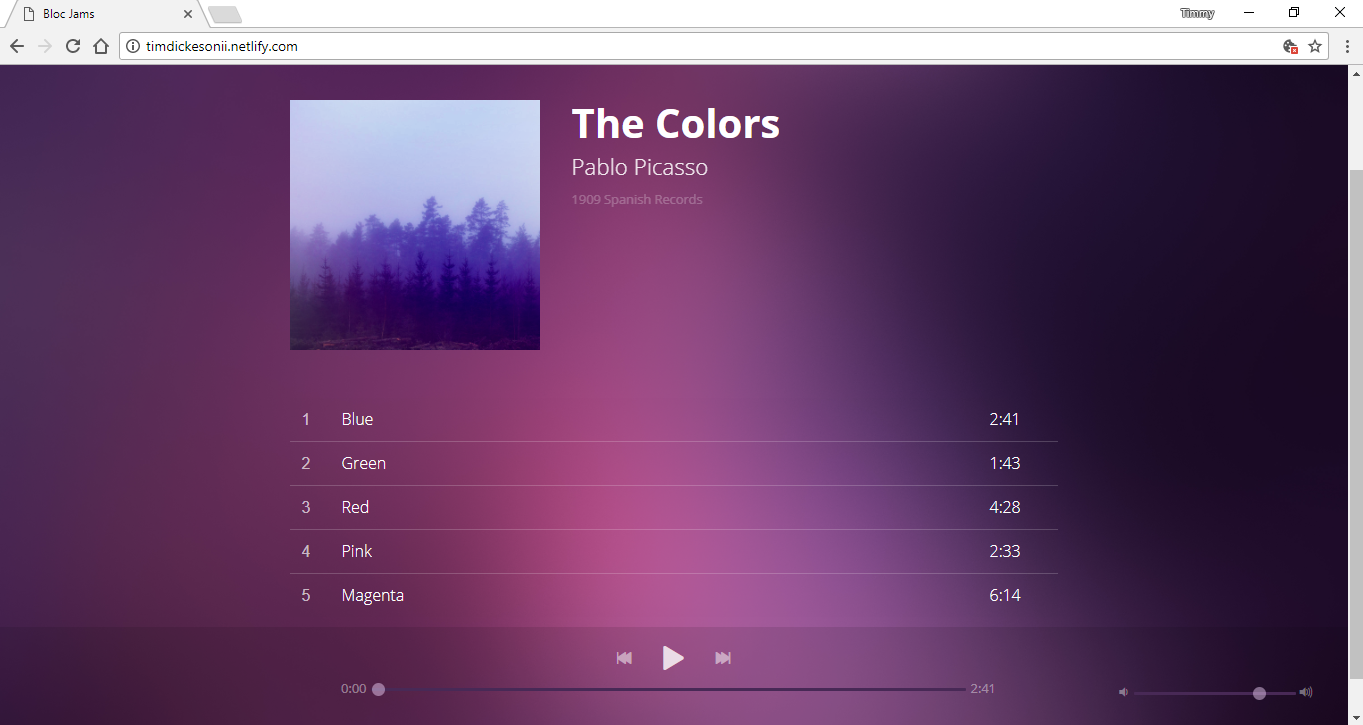
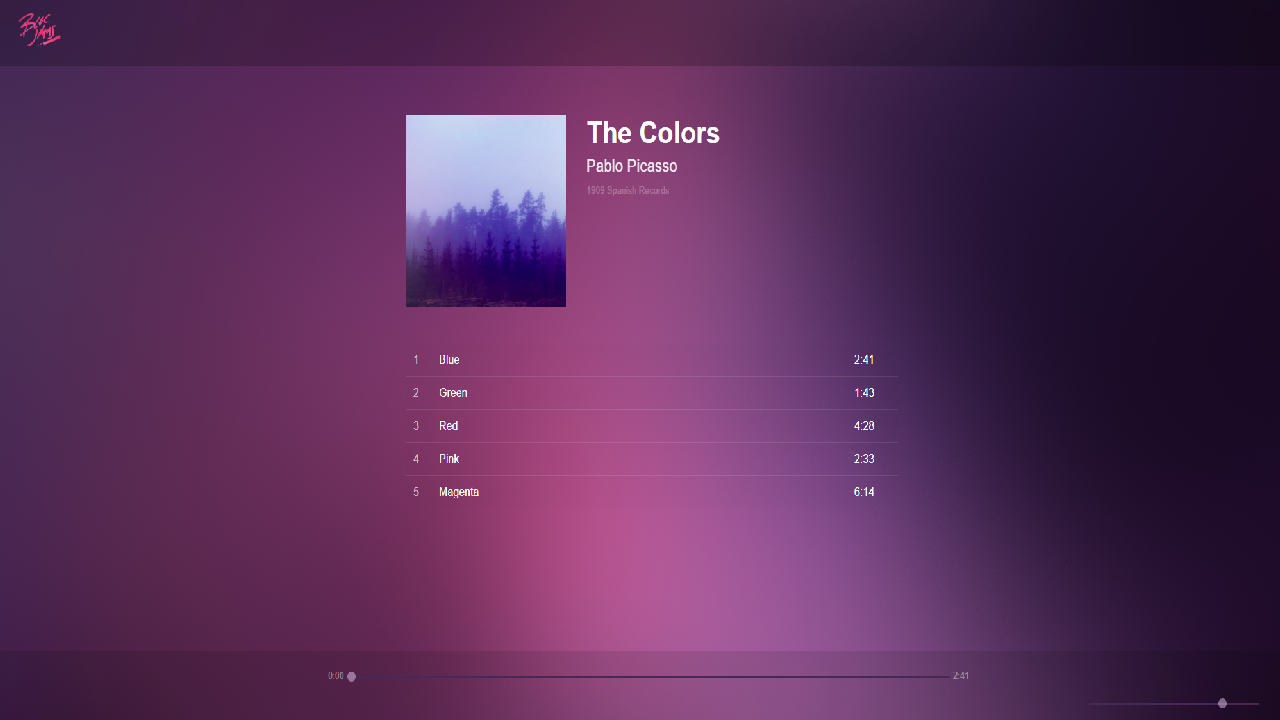
included 3 new projects, added new footer links, and changed font

diff --git a/index.html b/index.html
@@ -12,13 +12,24 @@
   <body>
     <header id="portfolio-header">
       <h1>Tim Dickeson II</h1>
-      <p id="slogan">Adventurous Full Stack Developer</p>
+      <p id="slogan">Full Stack Engineer</p>
     </header>
 
     <main>
       <div class="container">
         <div>
-          <img class="project-picture" src="images/blocjams.png" alt="project screenshot"/>
+          <img class="project-picture" src="images/clappybird.png" alt="clappy bird"/>
+        </div>
+        <div>
+          <h2 class="project-name">Clappy Bird</h2>
+          <p class="project-description">Took a previously made flappybird clone on Unity3D and revamped it to be controlled by clapping or saying 1-syllable words (i.e. "Jump" or "Up").</p>
+          <a class="project-link" href="https://www.youtube.com/watch?v=RoESkSNBo8A">Check it out</a>
+        </div>
+      </div>
+
+      <div class="container">
+        <div>
+          <img class="project-picture" src="images/blocjams.png" alt="bloc jams"/>
         </div>
         <div>
           <h2 class="project-name">Bloc Jams Music Player</h2>
@@ -29,34 +40,23 @@
 
       <div class="container">
         <div>
-          <img class="project-picture" src="images/blocjams.png" alt="project screenshot"/>
+          <img class="project-picture" src="images/bloccit.png" alt="bloccit"/>
         </div>
         <div>
-          <h2 class="project-name">Project Name</h2>
-          <p class="project-description">Project description text</p>
-          <a class="project-link" href="">Check it out</a>
-        </div>
-      </div>
-
-      <div class="container">
-        <div>
-          <img class="project-picture" src="images/blocjams.png" alt="project screenshot"/>
-        </div>
-        <div>
-          <h2 class="project-name">Project Name</h2>
-          <p class="project-description">Project description text</p>
-          <a class="project-link" href="">Check it out</a>
+          <h2 class="project-name">Bloccit</h2>
+          <p class="project-description">A clone of Reddit made during my time at Bloc to practice Rails</p>
+          <a class="project-link" href="https://pacific-shore-67613.herokuapp.com/">Check it out</a>
         </div>
       </div>
 
       <div class="container">
         <div>
-          <img class="project-picture" src="images/blocjams.png" alt="project screenshot"/>
+          <img class="project-picture" src="images/this.png" alt="this"/>
         </div>
         <div>
-          <h2 class="project-name">Project Name</h2>
-          <p class="project-description">Project description text</p>
-          <a class="project-link" href="">Check it out</a>
+          <h2 class="project-name">This</h2>
+          <p class="project-description">Portfolio-ception</p>
+          <a class="project-link" href="https://imacubsfan23.github.io">Check it out</a>
         </div>
       </div>
     </main>
@@ -64,28 +64,23 @@
     <footer id="connect">
       <ul id="footer-links">
         <li>
+          <a href="https://www.quora.com/profile/Tim-Dickeson-1">
+            <img src="images/quora_logo.png"/ alt="My quora page">
+          </a>
+        </li>
+        <li>
           <a href="https://github.com/imacubsfan23">
-            <img src="images/github_logo.png"/>
+            <img src="images/github_logo.png"/ alt="My github">
           </a>
         </li>
         <li>
           <a href="https://www.linkedin.com/in/tim-dickeson-32a109148/">
-            <img src="images/linkedin_logo.png"/>
-          </a>
-        </li>
-        <li>
-          <a href="https://www.facebook.com/Imacubsfan23">
-            <img src="images/facebook_logo.png"/>
-          </a>
-        </li>
-        <li>
-          <a href="https://twitter.com/TimD88935980">
-            <img src="images/twitter_logo.png"/>
+            <img src="images/linkedin_logo.png"/ alt="My LinkedIn Account">
           </a>
         </li>
         <li>
           <a href="mailto:imacubsfan23@gmail.com">
-            <img src="images/email_logo.png"/>
+            <img src="images/email_logo.png"/ alt="Email me">
           </a>
         </li>
       </ul>

diff --git a/styles/styles.css b/styles/styles.css
@@ -4,6 +4,8 @@ body {
   width: 90%;
   margin: auto;
   color: white;
+  font-family: garamond;
+  font-weight: 400;
 }
 
 header {
@@ -24,10 +26,18 @@ h1 {
   margin: 0;
 }
 
+h2 {
+  font-size: 2rem;
+}
+
+p {
+  font-size: 1.5rem;
+}
+
 #slogan {
   color: hsla(0, 0%, 100%, 0.7);
   font-weight: lighter;
-  font-size: 1.6rem;
+  font-size: 2rem;
 }
 
 main {
@@ -41,11 +51,14 @@ main {
   flex-direction: row;
   background-color: hsla(0, 0%, 100%, 0.7);
   border: 0.5vh solid black;
+  border-radius: 1vh;
   margin: 2vh;
 }
 
 .project-picture {
-  margin: 1vh;
+  margin: 2vh;
+  border: 0.5vh solid black;
+  border-radius: 1vh;
 }
 
 .project-name, .project-description, .project-link {
@@ -78,6 +91,7 @@ footer#connect {
   height: 100%;
   margin: 0;
   padding: 0;
+  border-radius: 5rem;
 }
 
 #footer-links li {
@@ -86,8 +100,9 @@ footer#connect {
 }
 
 #footer-links img {
-  width: 32px;
-  height: 32px;
+  width: 5rem;
+  height: 5rem;
+  border-radius: 1rem;
 }
 
 @media screen and (max-width: 1024px) {
